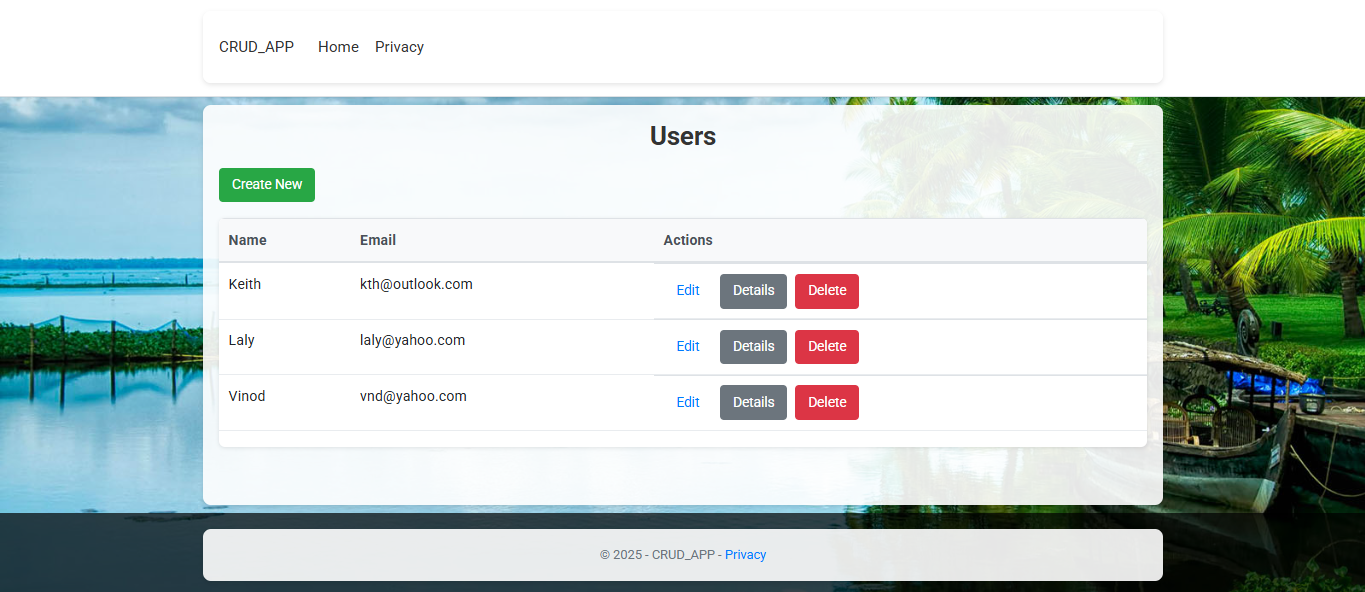
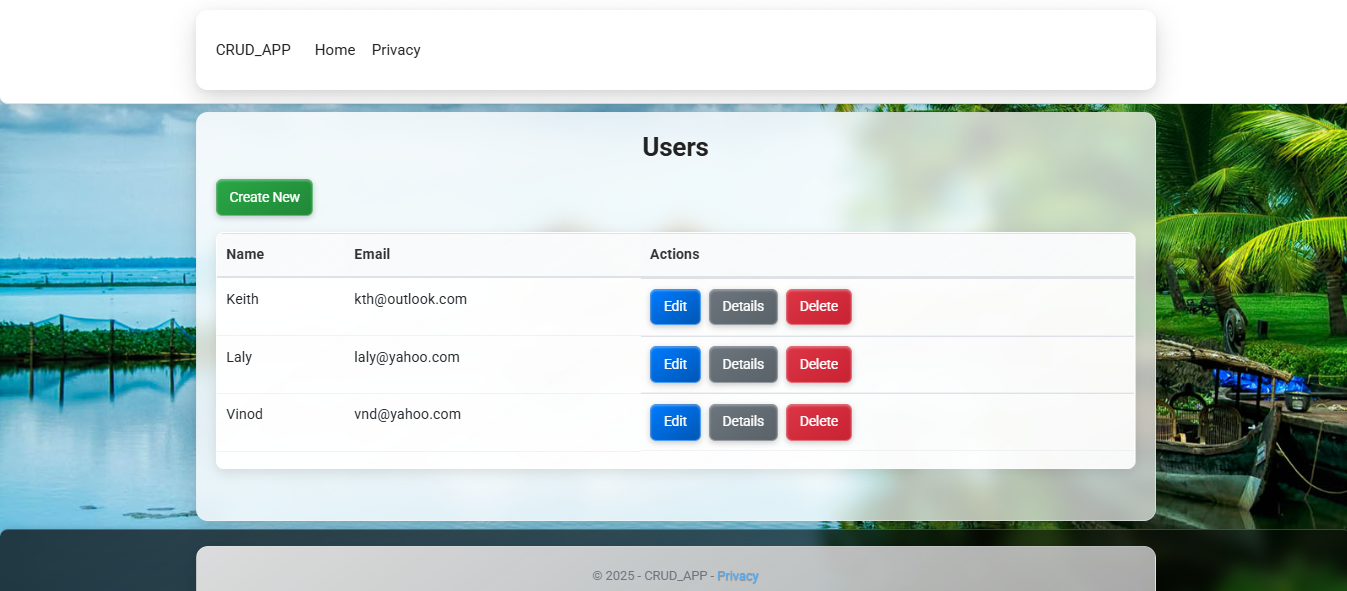
Updated site.css for glassmorphic 3D styling; updated new screenshot and styling description

diff --git a/CRUD_APP/wwwroot/css/site.css b/CRUD_APP/wwwroot/css/site.css
@@ -19,7 +19,7 @@ body {
     font-family: 'Roboto', Arial, sans-serif;
     background-color: #f4f4f4; /* Fallback */
     background-image: url('/images/w.jpg');
-    background-size: cover; /* Cover entire screen */
+    background-size: cover;
     background-position: center;
     background-repeat: no-repeat;
     background-attachment: fixed;
@@ -34,50 +34,66 @@ body {
 /* Navigation Bar */
 .navbar {
     padding: 0.3rem 1rem;
-    background-color: #fff;
-    border-bottom: 1px solid #dee2e6;
-    box-shadow: 0 1px 2px rgba(0, 0, 0, 0.1);
+    background: linear-gradient(145deg, rgba(255, 255, 255, 0.9), rgba(255, 255, 255, 0.7)); /* Glossy gradient */
+    backdrop-filter: blur(8px); /* Glassmorphism */
+    border-bottom: 1px solid rgba(255, 255, 255, 0.2);
+    box-shadow: 0 4px 12px rgba(0, 0, 0, 0.1), 0 1px 3px rgba(0, 0, 0, 0.05); /* 3D depth */
     margin-bottom: 0;
+    border-radius: 0 0 8px 8px; /* Rounded bottom edges */
 }
 
 .navbar-brand, .nav-link {
     font-size: 0.95rem;
-    color: #333 !important;
+    color: #222 !important;
+    text-shadow: 0 1px 1px rgba(255, 255, 255, 0.5); /* Subtle glow */
+    transition: transform 0.2s;
 }
 
     .nav-link:hover {
         color: #007bff !important;
+        transform: translateY(-1px); /* 3D lift */
     }
 
 .navbar-toggler {
     padding: 0.2rem 0.4rem;
+    border: 1px solid rgba(255, 255, 255, 0.3);
 }
 
 /* Container */
 .container {
     max-width: 960px;
     margin: 0.5rem auto;
-    padding: 1rem;
-    background-color: rgba(255, 255, 255, 0.9); /* Slightly more transparent */
-    border-radius: 8px;
-    box-shadow: 0 2px 5px rgba(0, 0, 0, 0.1);
+    padding: 1.2rem;
+    background: linear-gradient(145deg, rgba(255, 255, 255, 0.85), rgba(255, 255, 255, 0.65)); /* Glassy gradient */
+    backdrop-filter: blur(10px); /* Frosted glass */
+    border: 1px solid rgba(255, 255, 255, 0.2);
+    border-radius: 12px;
+    box-shadow: 0 8px 24px rgba(0, 0, 0, 0.15), 0 2px 6px rgba(0, 0, 0, 0.05); /* 3D depth */
     flex-grow: 1;
+    transition: transform 0.3s;
 }
+
+    .container:hover {
+        transform: translateY(-2px); /* Subtle 3D lift on hover */
+    }
 
 /* Headings */
 h1 {
     font-size: 1.6rem;
     font-weight: 700;
-    color: #333;
+    color: #222;
     margin-bottom: 1rem;
     text-align: center;
+    text-shadow: 0 1px 2px rgba(255, 255, 255, 0.5); /* Glossy text */
 }
 
 /* Table Container */
 .table-container {
-    background-color: #fff;
-    border-radius: 6px;
-    box-shadow: 0 1px 4px rgba(0, 0, 0, 0.1);
+    background: linear-gradient(145deg, rgba(255, 255, 255, 0.9), rgba(255, 255, 255, 0.7));
+    backdrop-filter: blur(6px);
+    border: 1px solid rgba(255, 255, 255, 0.2);
+    border-radius: 8px;
+    box-shadow: 0 4px 12px rgba(0, 0, 0, 0.1);
     max-height: 65vh;
     overflow-y: auto;
     overflow-x: auto;
@@ -94,20 +110,22 @@ h1 {
     .table th, .table td {
         padding: 0.6rem;
         text-align: left;
-        border-bottom: 1px solid #e9ecef;
+        border-bottom: 1px solid rgba(233, 236, 239, 0.7);
     }
 
     .table th {
-        background-color: #f8f9fa;
+        background: linear-gradient(145deg, rgba(248, 249, 250, 0.9), rgba(248, 249, 250, 0.7));
         font-weight: 600;
-        color: #495057;
+        color: #333;
         position: sticky;
         top: 0;
         z-index: 1;
     }
 
     .table tbody tr:hover {
-        background-color: #f1f3f5;
+        background: rgba(241, 243, 245, 0.5);
+        transform: scale(1.01); /* Subtle 3D pop */
+        transition: transform 0.2s;
     }
 
 /* Action Links */
@@ -120,43 +138,44 @@ h1 {
 .button {
     display: inline-block;
     padding: 0.4rem 0.8rem;
-    border-radius: 4px;
+    border-radius: 6px;
     text-decoration: none;
     font-size: 0.85rem;
-    transition: background-color 0.2s, transform 0.2s;
+    background: linear-gradient(145deg, #007bff, #0056b3); /* Glossy button */
+    color: #fff;
+    border: 1px solid rgba(255, 255, 255, 0.3);
+    box-shadow: 0 2px 6px rgba(0, 0, 0, 0.2), inset 0 1px 2px rgba(255, 255, 255, 0.3); /* 3D effect */
+    transition: transform 0.2s, box-shadow 0.2s;
     cursor: pointer;
-    border: none;
 }
 
     .button:hover {
-        transform: translateY(-1px);
+        transform: translateY(-2px) scale(1.02); /* 3D lift */
+        box-shadow: 0 4px 12px rgba(0, 0, 0, 0.3);
     }
 
 .button-success {
-    background-color: #28a745;
-    color: #fff;
+    background: linear-gradient(145deg, #28a745, #218838);
 }
 
     .button-success:hover {
-        background-color: #218838;
+        background: linear-gradient(145deg, #218838, #1e7e34);
     }
 
 .button-secondary {
-    background-color: #6c757d;
-    color: #fff;
+    background: linear-gradient(145deg, #6c757d, #5a6268);
 }
 
     .button-secondary:hover {
-        background-color: #5a6268;
+        background: linear-gradient(145deg, #5a6268, #545b62);
     }
 
 .button-danger {
-    background-color: #dc3545;
-    color: #fff;
+    background: linear-gradient(145deg, #dc3545, #c82333);
 }
 
     .button-danger:hover {
-        background-color: #c82333;
+        background: linear-gradient(145deg, #c82333, #bd2130);
     }
 
 /* Create Form */
@@ -166,40 +185,57 @@ h1 {
 
 .form-control {
     font-size: 0.9rem;
-    border-radius: 4px;
-    border: 1px solid #ced4da;
+    border-radius: 6px;
+    border: 1px solid rgba(206, 212, 218, 0.7);
+    background: rgba(255, 255, 255, 0.8);
+    box-shadow: inset 0 1px 3px rgba(0, 0, 0, 0.1);
+    transition: transform 0.2s;
 }
 
+    .form-control:focus {
+        transform: scale(1.01); /* Subtle 3D pop */
+        box-shadow: 0 0 8px rgba(0, 123, 255, 0.3);
+    }
+
 .btn-primary {
-    background-color: #007bff;
-    border-color: #007bff;
+    background: linear-gradient(145deg, #007bff, #0056b3);
+    border: none;
     padding: 0.5rem 1rem;
     font-size: 0.9rem;
-    border-radius: 4px;
+    border-radius: 6px;
+    box-shadow: 0 2px 6px rgba(0, 0, 0, 0.2), inset 0 1px 2px rgba(255, 255, 255, 0.3);
+    transition: transform 0.2s, box-shadow 0.2s;
 }
 
     .btn-primary:hover {
-        background-color: #0056b3;
-        border-color: #0056b3;
+        background: linear-gradient(145deg, #0056b3, #003087);
+        transform: translateY(-2px);
+        box-shadow: 0 4px 12px rgba(0, 0, 0, 0.3);
     }
 
 /* Footer */
 footer.footer {
-    background-color: rgba(0, 0, 0, 0.7);
+    background: linear-gradient(145deg, rgba(0, 0, 0, 0.7), rgba(0, 0, 0, 0.5));
+    backdrop-filter: blur(8px);
     color: #fff;
     text-align: center;
     padding: 0.5rem 0;
     font-size: 0.8rem;
     width: 100%;
+    border-top: 1px solid rgba(255, 255, 255, 0.2);
+    box-shadow: 0 -2px 6px rgba(0, 0, 0, 0.1);
+    border-radius: 8px 8px 0 0;
 }
 
     footer.footer a {
-        color: #007bff;
+        color: #4dabf7;
         text-decoration: none;
+        text-shadow: 0 1px 1px rgba(0, 0, 0, 0.3);
     }
 
         footer.footer a:hover {
             text-decoration: underline;
+            color: #74c0fc;
         }
 
 /* Neutralize content-wrap */
